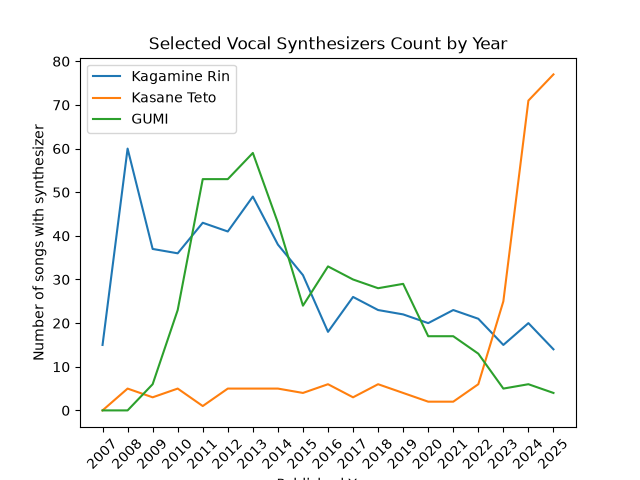
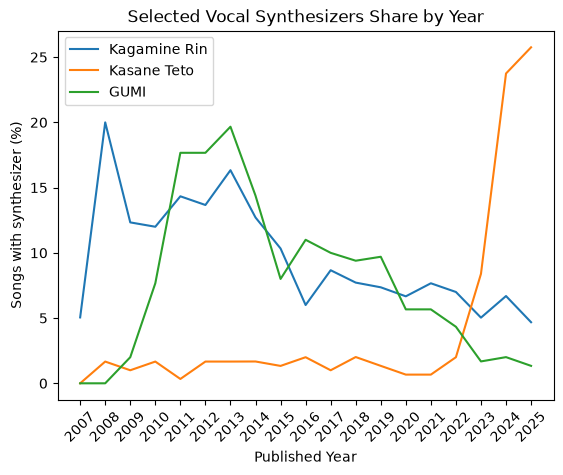
changed to percentage share

diff --git a/vocal_synth.py b/vocal_synth.py
@@ -34,7 +34,10 @@ def get_voca_count(songs):
 def count_per_year(songs):
     valid_data = songs[["year", "vocaloid"]].dropna()
     voca_count_year = valid_data.groupby("year").apply(get_voca_count)
-    # voca_count_year["Number of Songs"] = valid_data.groupby("year").count()
+    total_songs = valid_data.groupby("year").count()
+    for vocaloid in VOCALOIDS:
+        voca_count_year[vocaloid] = (100 * voca_count_year[vocaloid] 
+                                    / total_songs["vocaloid"])
 
     print(voca_count_year)
     return voca_count_year
@@ -47,12 +50,12 @@ def plot_count_per_year(songs):
 
     data.plot(ax=ax, x="year")
     plt.xlabel("Published Year")
-    plt.ylabel("Number of songs with synthesizer")
+    plt.ylabel("Songs with synthesizer (%)")
     plt.xticks(data["year"], rotation=45)
-    plt.title("Selected Vocal Synthesizers Count by Year")
+    plt.title("Selected Vocal Synthesizers Share by Year")
 
 
-    plt.savefig("vocal_synth_trends.png")
+    plt.savefig("vocal_synth_trends.png", bbox_inches="tight")
 
 
 def main():
